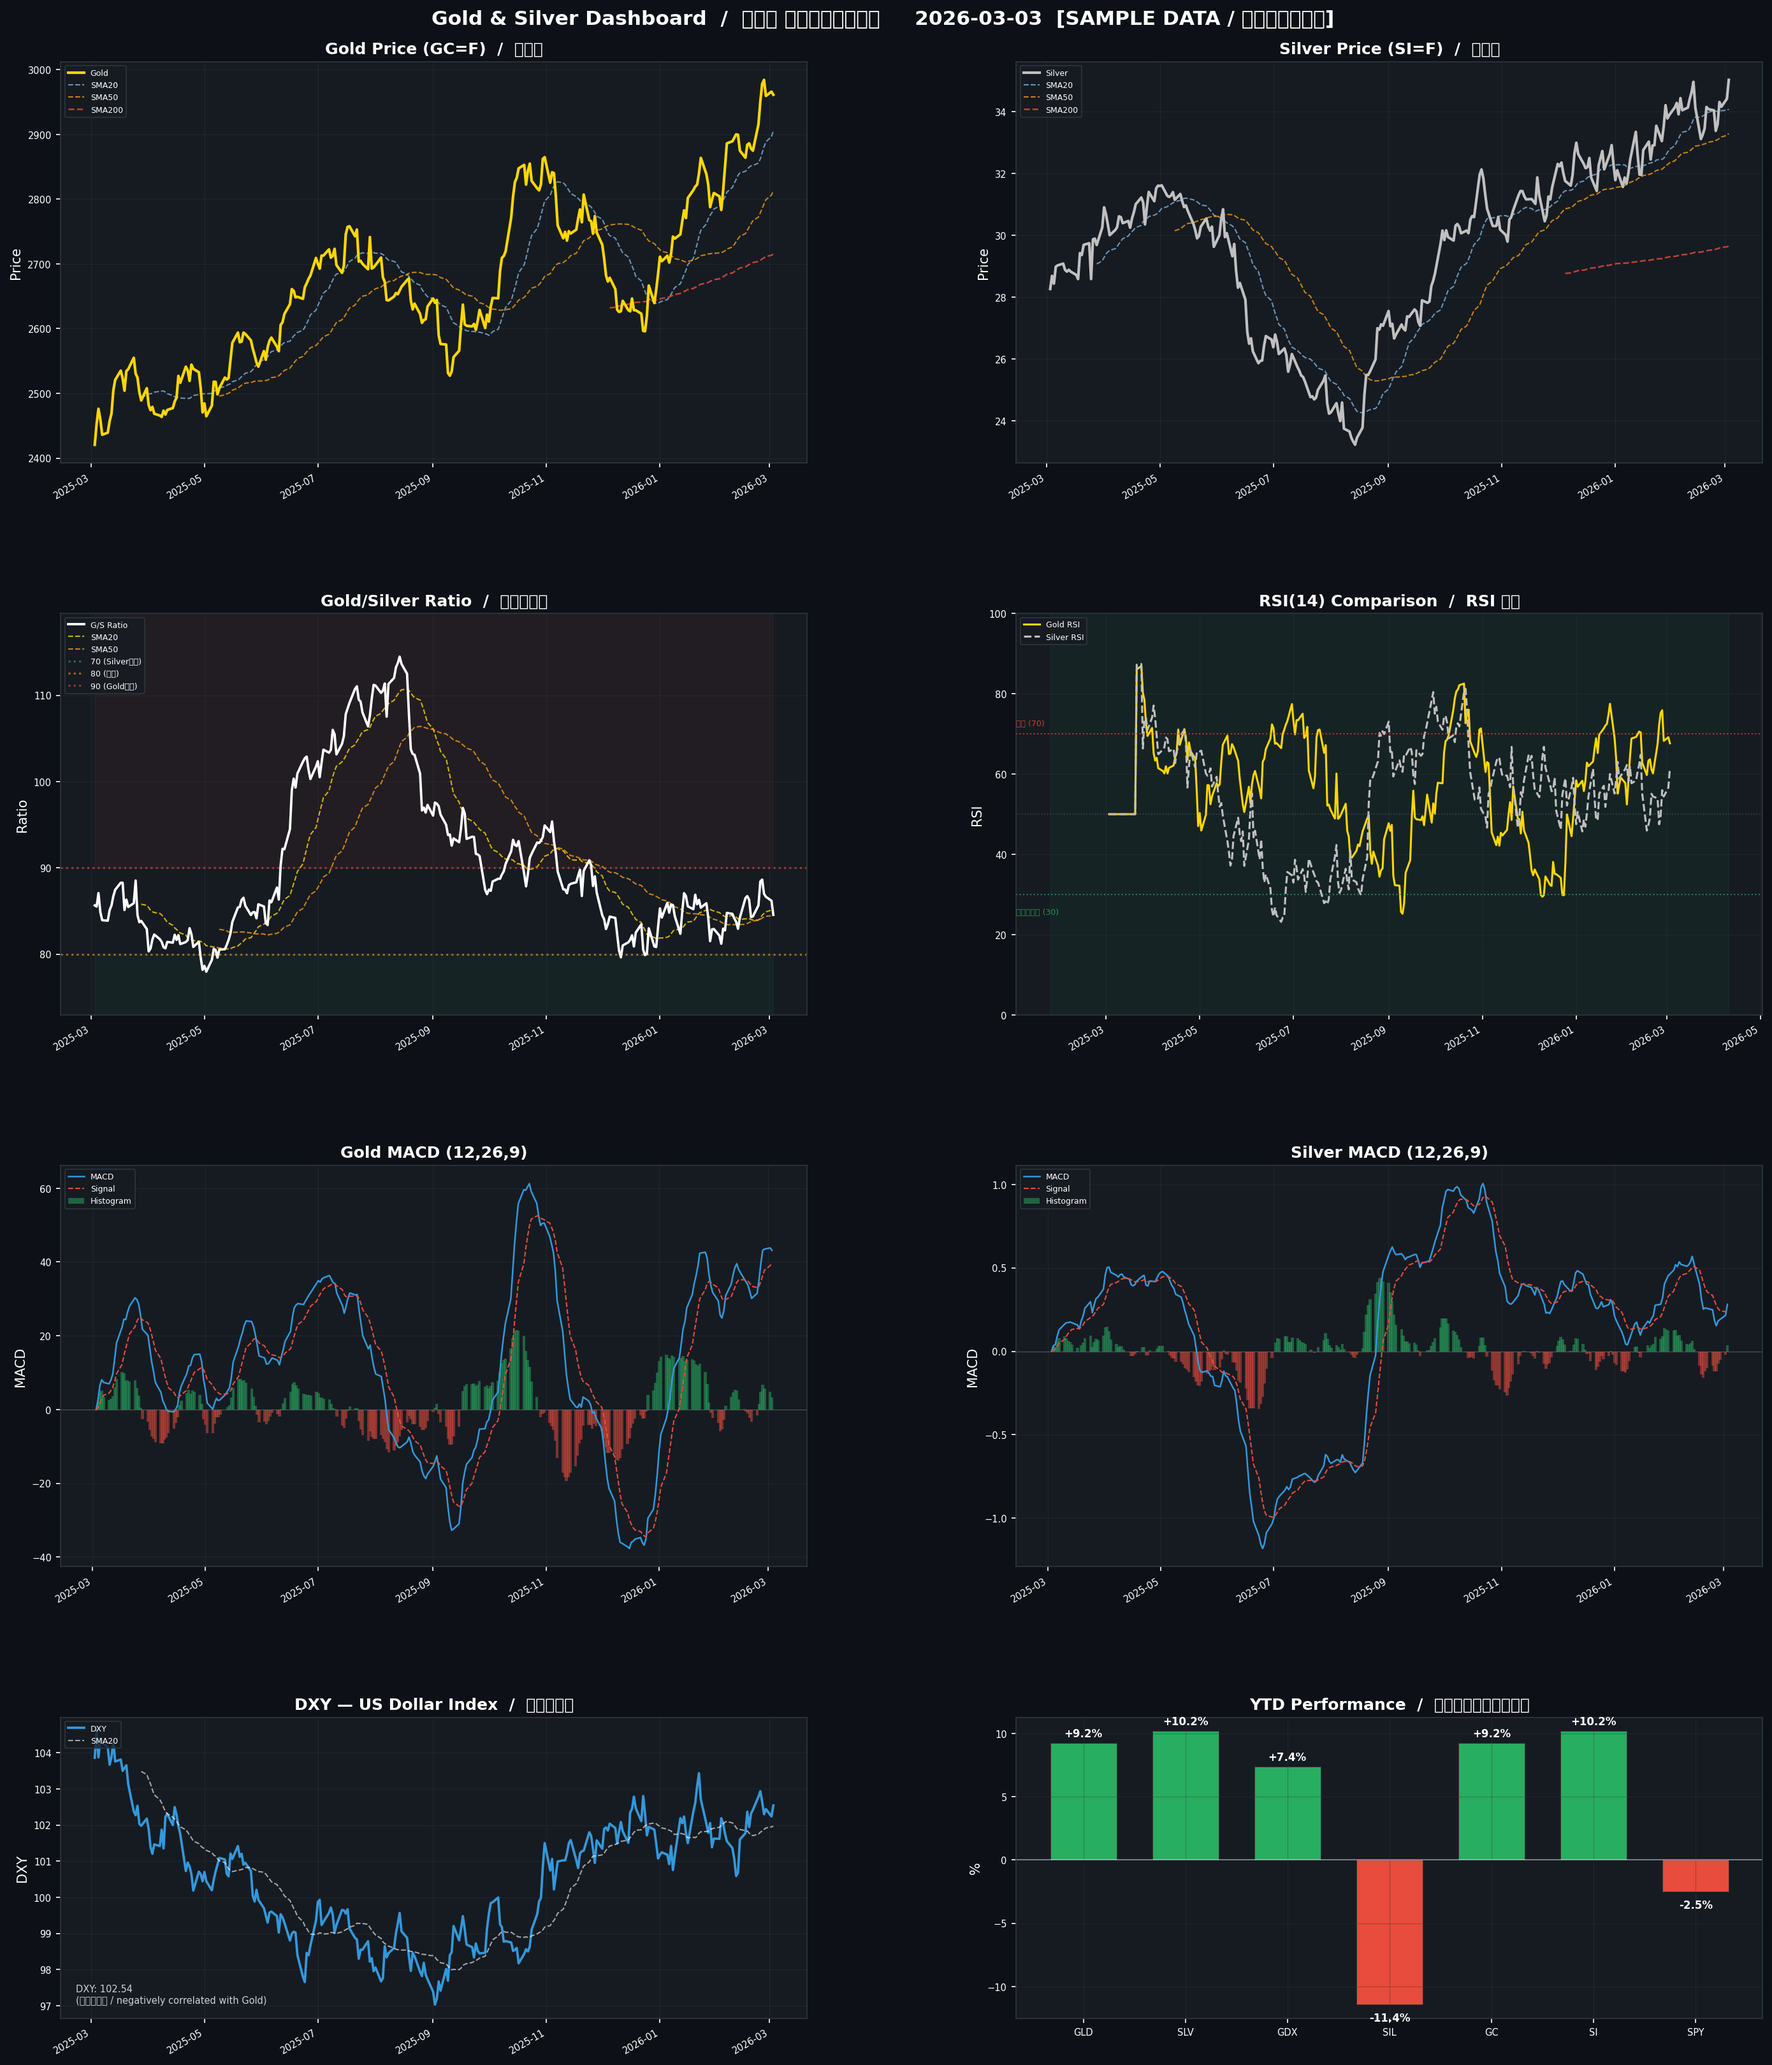
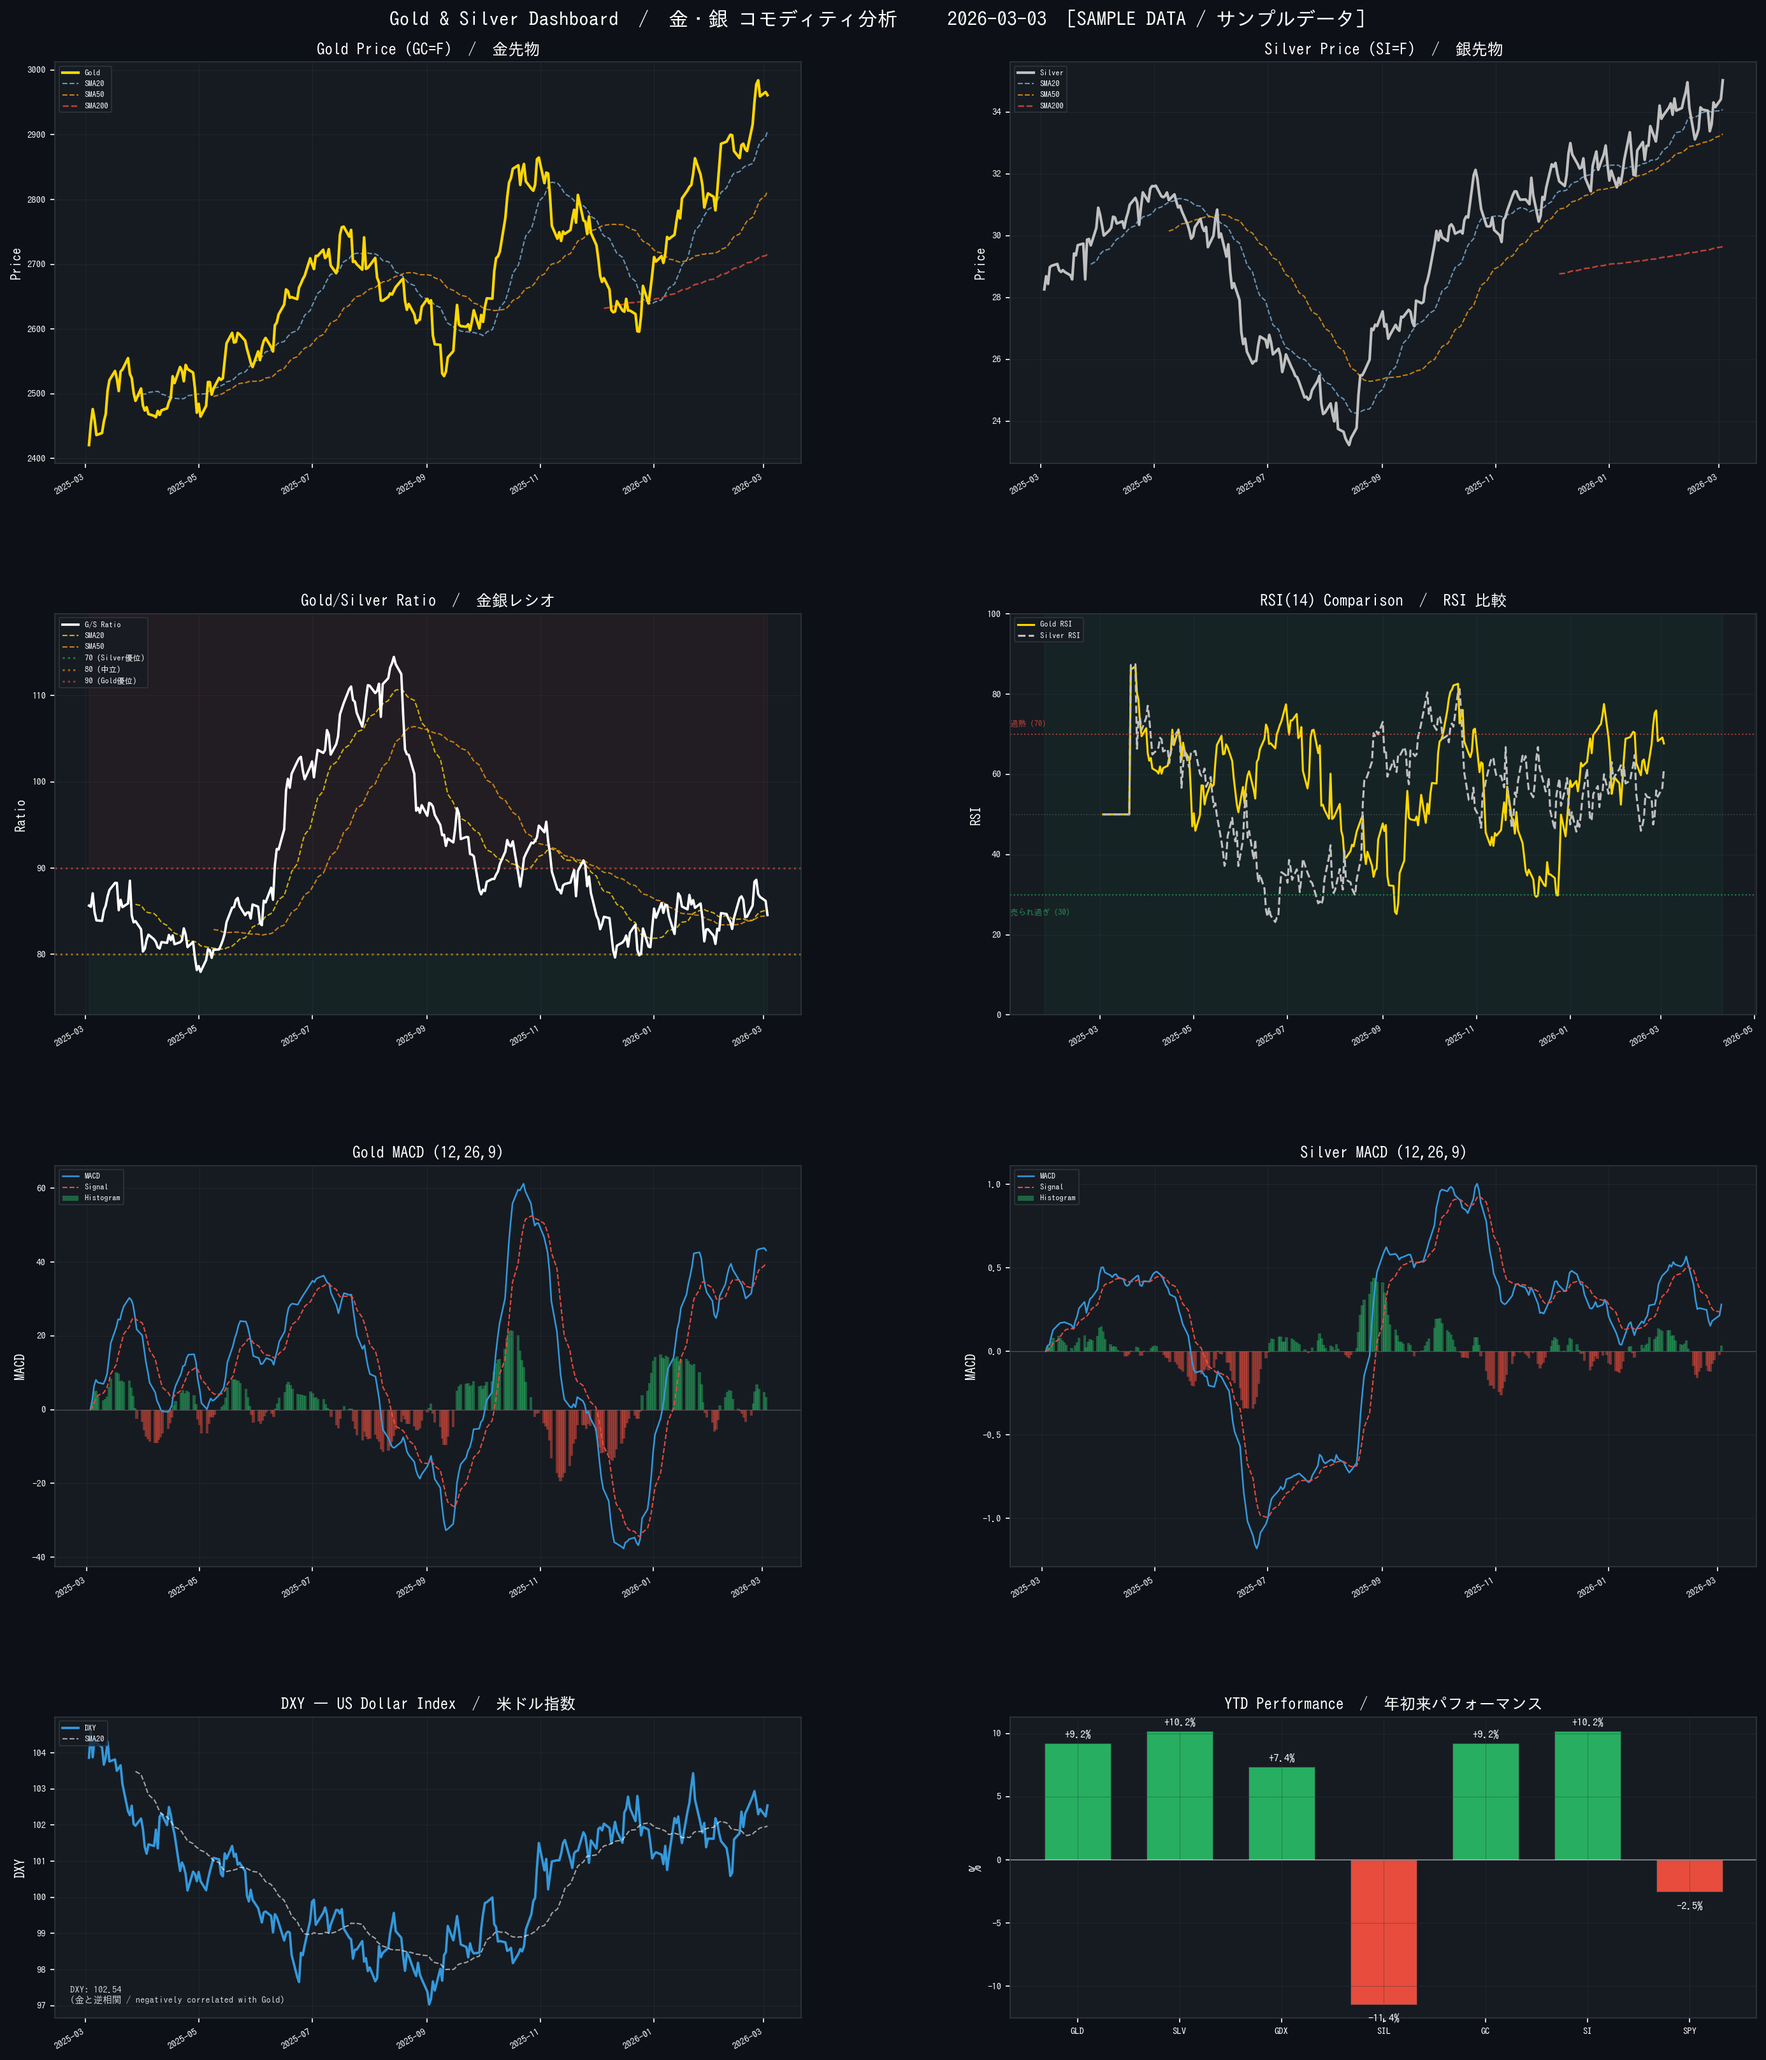
Fix Japanese font rendering in gold_silver_dashboard
Auto-detect and register system Japanese font (IPAGothic) when
matplotlib_fontja is unavailable, eliminating CJK glyph warnings.
Searches /usr/share/fonts candidates in priority order and sets
rcParams["font.family"] to the first available Japanese font.

https://claude.ai/code/session_01MJSszAgZtRcPk3KV9sai6j

diff --git a/screener/gold_silver_analyzer.py b/screener/gold_silver_analyzer.py
@@ -652,10 +652,23 @@ def plot_gold_silver_dashboard(
         matplotlib.use("Agg")
         import matplotlib.pyplot as plt
         import matplotlib.gridspec as mgridspec
+        import matplotlib.font_manager as fm
         try:
             import matplotlib_fontja  # noqa: F401
         except ImportError:
-            pass
+            # システムの日本語フォントを探して登録する
+            _JP_FONT_CANDIDATES = [
+                "/usr/share/fonts/opentype/ipafont-gothic/ipag.ttf",
+                "/usr/share/fonts/truetype/fonts-japanese-gothic.ttf",
+                "/usr/share/fonts/truetype/wqy/wqy-zenhei.ttc",
+                "/usr/share/fonts/opentype/unifont/unifont_jp.otf",
+            ]
+            for _fp in _JP_FONT_CANDIDATES:
+                if os.path.exists(_fp):
+                    fm.fontManager.addfont(_fp)
+                    _prop = fm.FontProperties(fname=_fp)
+                    matplotlib.rcParams["font.family"] = _prop.get_name()
+                    break
     except ImportError:
         print("  [Warning] matplotlib がインストールされていません。チャート生成をスキップします。")
         return
